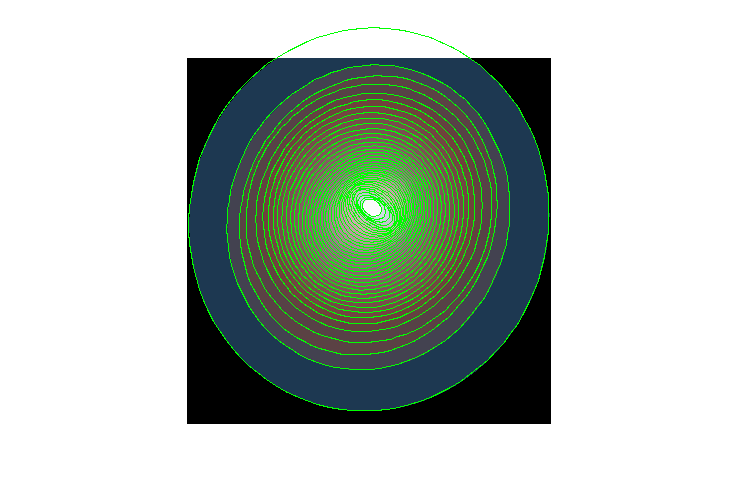
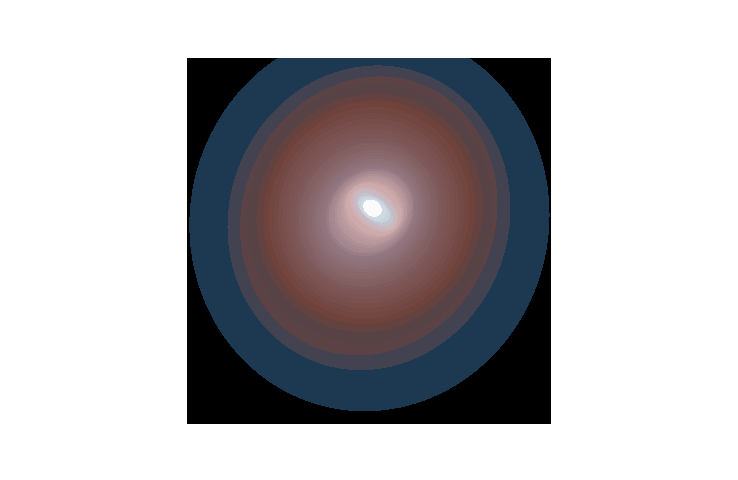
update docs

Changed region(s): [[0.3117, 0.1562, 0.6856, 0.7188]]

diff --git a/README.md b/README.md
@@ -44,9 +44,15 @@ ellipse profile
 emodel ellipses.fits img.fits model.fits weight=flat clob+ 
 ```
 
+`emodel` takes the information about the ellipses and the fraction 
+of the total flux in each ellipse to reconstruct a 2D model.  The `weight`
+parameter controls how the flux is distributed within the ellipse.  The
+default `flat` equally distributes the flux into each pixel in the ellipse.
+
+
 
 ```bash
-ds9 model.fits -region ellipses.fits -scale log \
+ds9 model.fits -scale log \
   -cmap load ~/ds9_hacks/LUT/Neota/neota_sunset-in-atlantis.lut \
   -view colorbar no  -saveimage png model.png -quit
 ```
